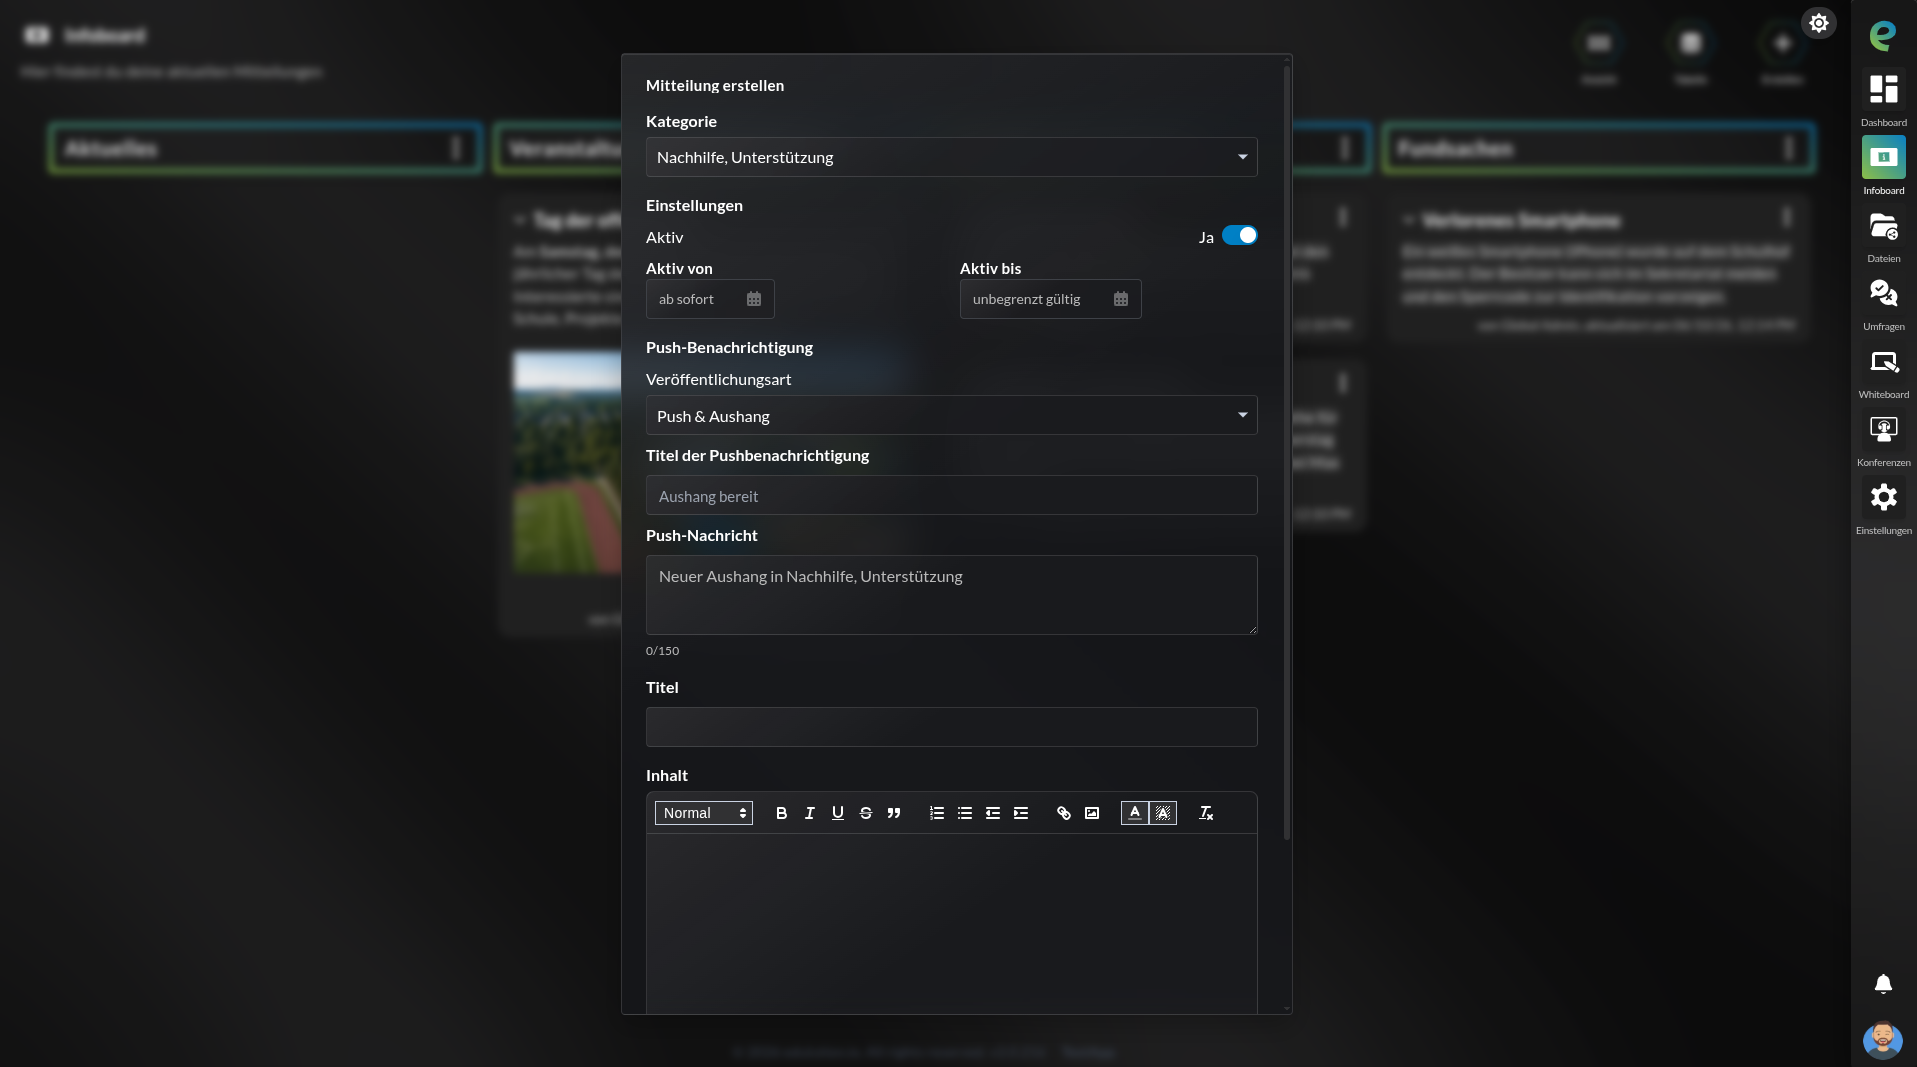
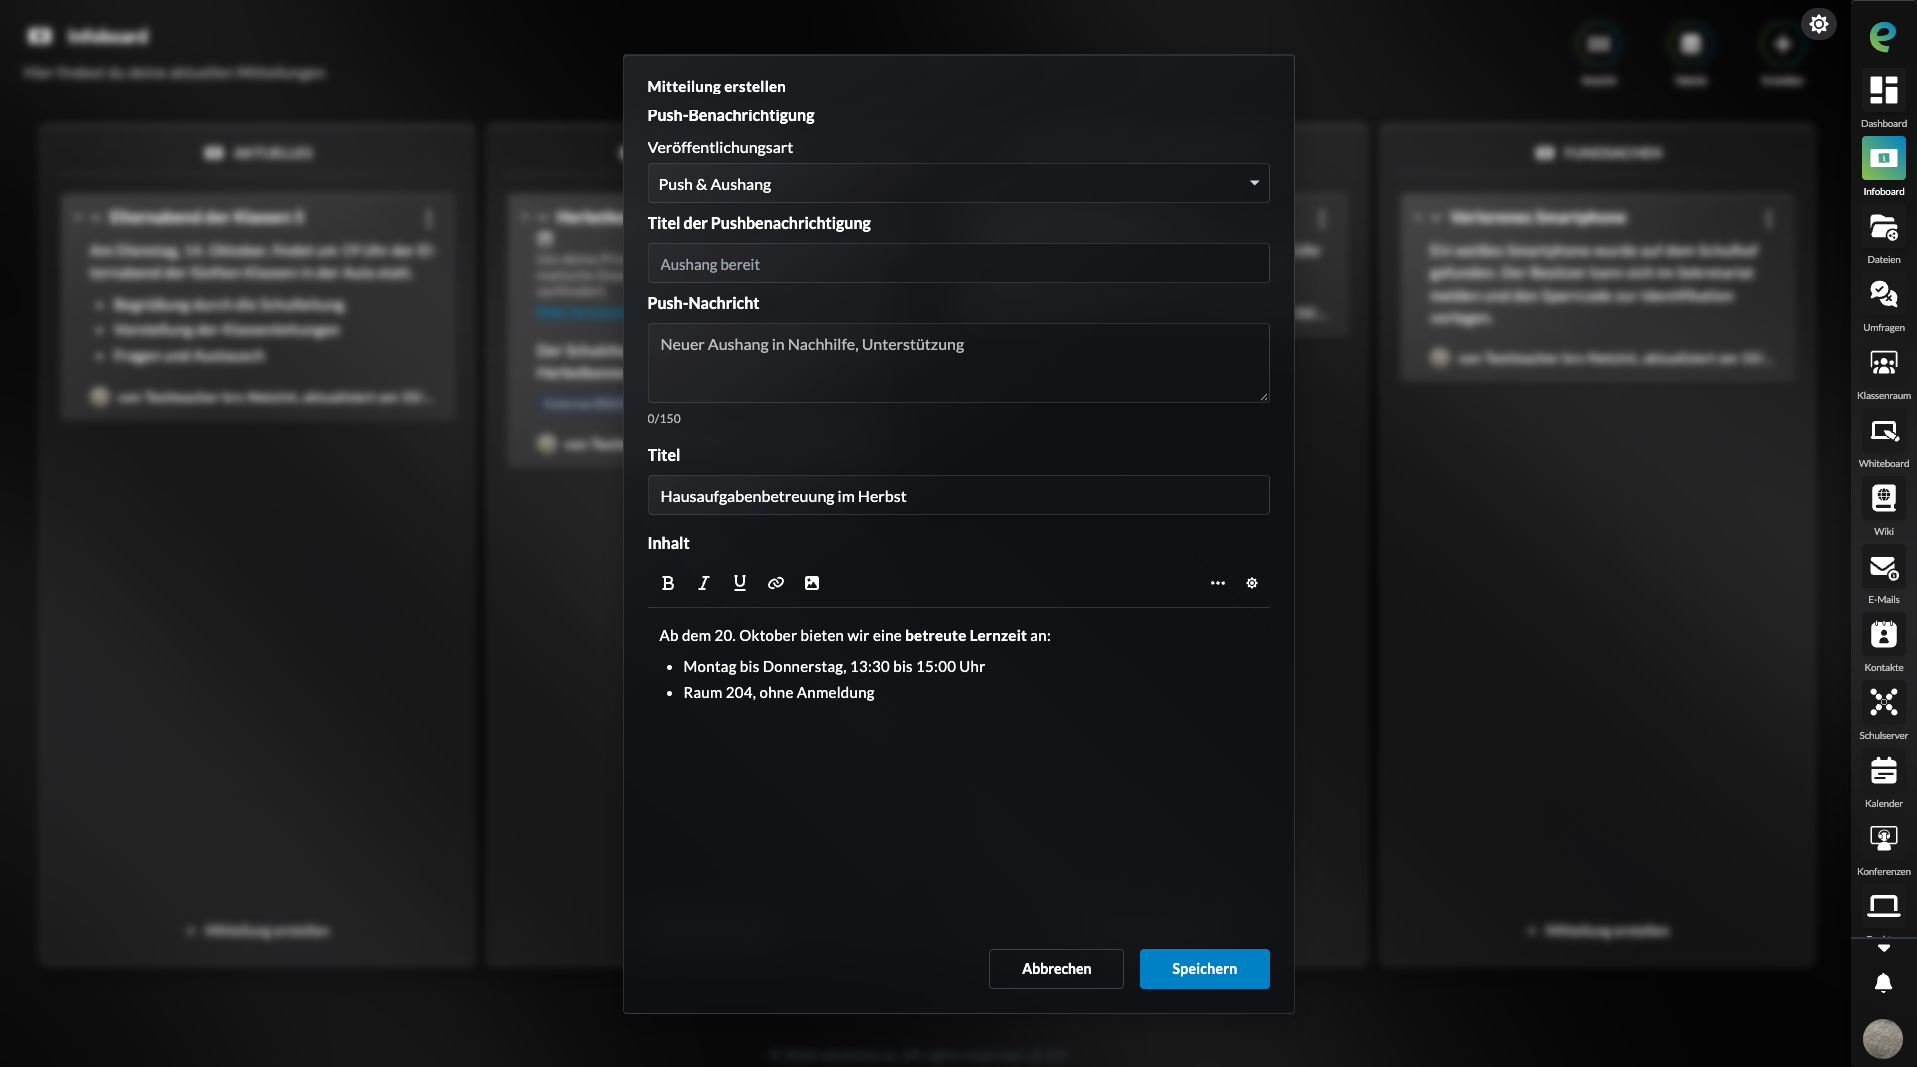
Document the Tiptap bulletin editor and the external-image release (#3326)
The Infoboard page gains a section on images from foreign hosts, which
the board withholds until the reader releases them, describes the
toolbar of the Tiptap editor, the ten-visible-character minimum and the
light-mode preview, and takes a new screenshot of the editor and one of
a withheld image.

diff --git a/docs/edulution-plattform/apps/native-apps/infoboard.md b/docs/edulution-plattform/apps/native-apps/infoboard.md
@@ -20,6 +20,16 @@ Standardmäßig werden die Kategorien in einer Zeile von links nach rechts aufge
 
 ![Infoboard - Tabellen Ansicht](/img/schwarzes-brett/schwarzes-brett-table-view.png)
 
+### Bilder von anderen Servern
+
+Eine Mitteilung kann Bilder enthalten, die nicht auf dem edulution-Server liegen, sondern über die Adresse eines anderen Servers eingebunden sind. Beim Laden eines solchen Bildes erfährt dieser Server, wer die Mitteilung wann gelesen hat. Das Infoboard lädt diese Bilder deshalb nicht automatisch: An ihrer Stelle steht **Externes Bild blockiert**, und über dem Inhalt erscheint ein Hinweis mit dem Link **Bilder herunterladen**.
+
+![Infoboard - Blockierte Bilder von anderen Servern](/img/schwarzes-brett/schwarzes-brett-external-images-blocked.png)
+
+Ein Klick auf **Bilder herunterladen** lädt die Bilder dieser einen Mitteilung, und zwar nur für Sie. Die Freigabe gilt, bis Sie die Seite neu laden oder sich abmelden, auch wenn Sie die Mitteilung zwischendurch zu- und wieder aufklappen. Ändert der Autor den Inhalt der Mitteilung, werden ihre Bilder erneut blockiert. Beim Bearbeiten gilt die Sperre nicht: Öffnen Sie eine solche Mitteilung im Editor, lädt dieser ihre Bilder sofort.
+
+Bilder, die über den Editor hochgeladen wurden, liegen auf dem edulution-Server und werden sofort angezeigt.
+
 ## Mitteilungen
 
 <Audience roles="advanced">
@@ -29,13 +39,21 @@ Standardmäßig werden die Kategorien in einer Zeile von links nach rechts aufge
 ![Infoboard - Neue Mitteilung erstellen](/img/schwarzes-brett/schwarzes-brett-create-new-entry.png)
 
 1. Wählen Sie eine **Kategorie**.
-2. Geben Sie einen **Titel** ein und verfassen Sie den **Inhalt** im Editor. Dieser unterstützt Formatierungen wie **Fett**, *Kursiv*, Listen und Links; bei Bedarf lassen sich auch Bilder direkt einfügen.
+2. Geben Sie einen **Titel** ein und verfassen Sie den **Inhalt** im Editor. Die Werkzeugleiste zeigt zunächst **Fett**, *Kursiv*, Unterstrichen, Links und **Bild hochladen**. Die übrigen Formate, darunter Überschriften, Schriftart und Schriftgröße, Listen, Einzüge und die Ausrichtung, blenden Sie über die Schaltfläche mit den drei Punkten (**Weitere Formatierung**) ein.
 3. Legen Sie optional den Sichtbarkeitszeitraum fest – ein Datum, ab dem die Mitteilung erscheint (**Aktiv von**), und ein Datum, ab dem sie nicht mehr angezeigt wird (**Aktiv bis**).
 4. Wählen Sie über die **Veröffentlichungsart**, ob und wie die Mitteilung verschickt wird (siehe [Veröffentlichungsart](#veröffentlichungsart)).
-5. Speichern Sie die Mitteilung.
+5. Speichern Sie die Mitteilung. Der Inhalt braucht dafür mindestens zehn sichtbare Zeichen oder ein Bild. Eine ältere Mitteilung mit kürzerem Inhalt lässt sich erst wieder speichern, nachdem Sie den Inhalt entsprechend verlängert haben, auch wenn Sie nur ein anderes Feld ändern möchten.
 
 :::info[Autor]
 Neben dem Zeitstempel der neuen Mitteilung wird auch der Ersteller/Autor angeheftet und dann in der Kachelansicht angezeigt.
+:::
+
+:::info[Bilder]
+Bilder, die Sie über **Bild hochladen** einfügen, sehen alle Leser sofort. Ein Bild, das nur über die Adresse eines anderen Servers eingebunden ist, etwa aus einem kopierten Abschnitt einer Webseite, zeigt das Infoboard erst an, nachdem der Leser es freigegeben hat (siehe [Bilder von anderen Servern](#bilder-von-anderen-servern)).
+:::
+
+:::tip[Hell und dunkel]
+Arbeiten Sie im dunklen Design, zeigt die Schaltfläche **Im Light Mode anzeigen** in der Werkzeugleiste den Inhalt so an, wie er im hellen Design erscheint. So lassen sich Textfarben für beide Designs prüfen.
 :::
 
 :::info[Standard-Ablaufdatum]
